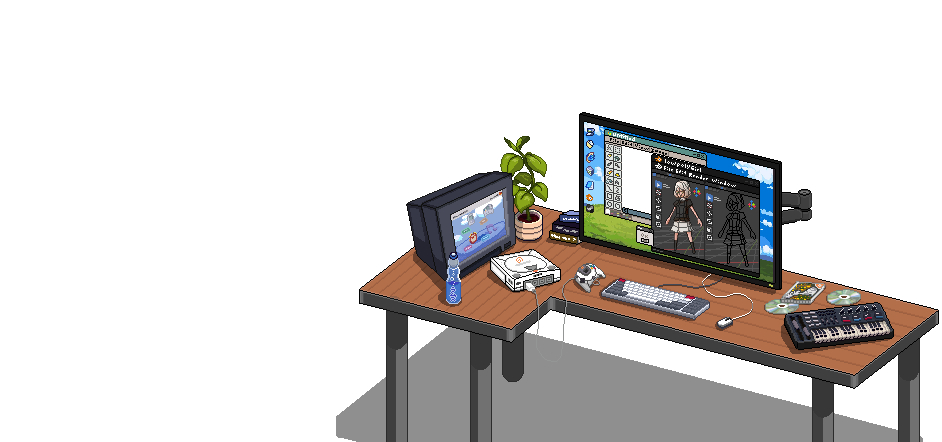
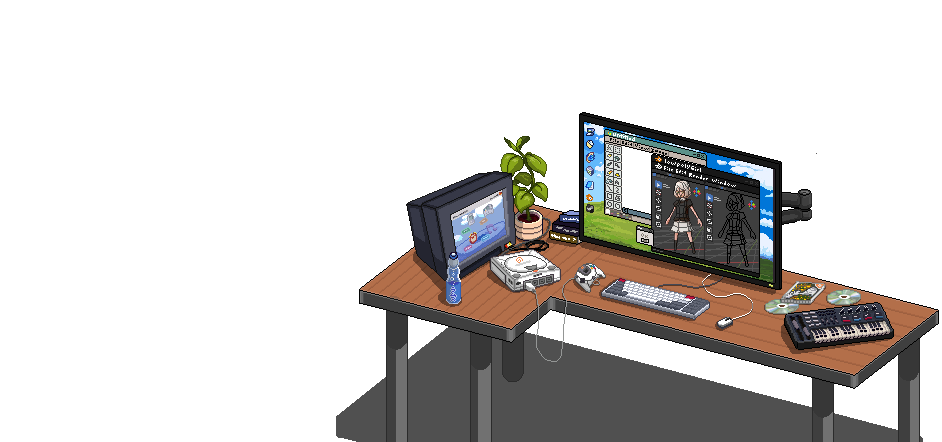
fix title not hiding in /en/ /jp/ paths, update jp text

diff --git a/src/content/spec/ja/studio.md b/src/content/spec/ja/studio.md
@@ -173,7 +173,7 @@ Secret Shop Studioが重視するのは、その先にあるものです。</br>
 # Secret Shop Studioに参加する
 
 <pre class="custom-code studio-register-copy"><code>
-<span class="custom-code-line">第1期 <strong>Secret Shop Studio</strong> コホートの応募を受け付けています。</span>
+<span class="custom-code-line">第1期 <strong>Secret Shop Studio</strong> cohortの応募を受け付けています。</span>
 <span class="custom-code-line">第1期は、およそ <strong>4〜6名</strong> の参加者で構成される予定です。</span>
 <span class="custom-code-line">適切なチームが編成されるまで、応募を受け付けます。</span>
 </code></pre>
@@ -280,7 +280,7 @@ Secret Shop Studioが重視するのは、その先にあるものです。</br>
 
 <p class="text-center text[#f8f2dc] font-medium">まだ応募する準備ができていませんか？</p>
 
-<p class="text-center">Secret Shop Studioのメーリングリストに登録すると、今後のコホート、応募開始、プロジェクトの進捗、プレイテストの機会、Studioチームによる公開作品のお知らせを受け取れます。
+<p class="text-center">Secret Shop Studioのメーリングリストに登録すると、今後のcohort、応募開始、プロジェクトの進捗、プレイテストの機会、Studioチームによる公開作品のお知らせを受け取れます。
 </p>
 
 <div class="studio-mailer-lite">
@@ -291,7 +291,7 @@ Secret Shop Studioが重視するのは、その先にあるものです。</br>
   <div class="studio-experience-copy">
     <p class="text-center font-bold">このリストでは、次のような情報をお届けします：</p>
     <ul>
-      <li>新しいコホートの応募開始</li>
+      <li>新しいcohortの応募開始</li>
       <li>進行中のStudioプロジェクトの更新</li>
       <li>プレイテストのお知らせ</li>
       <li>完成したプロジェクトのリリース情報</li>
